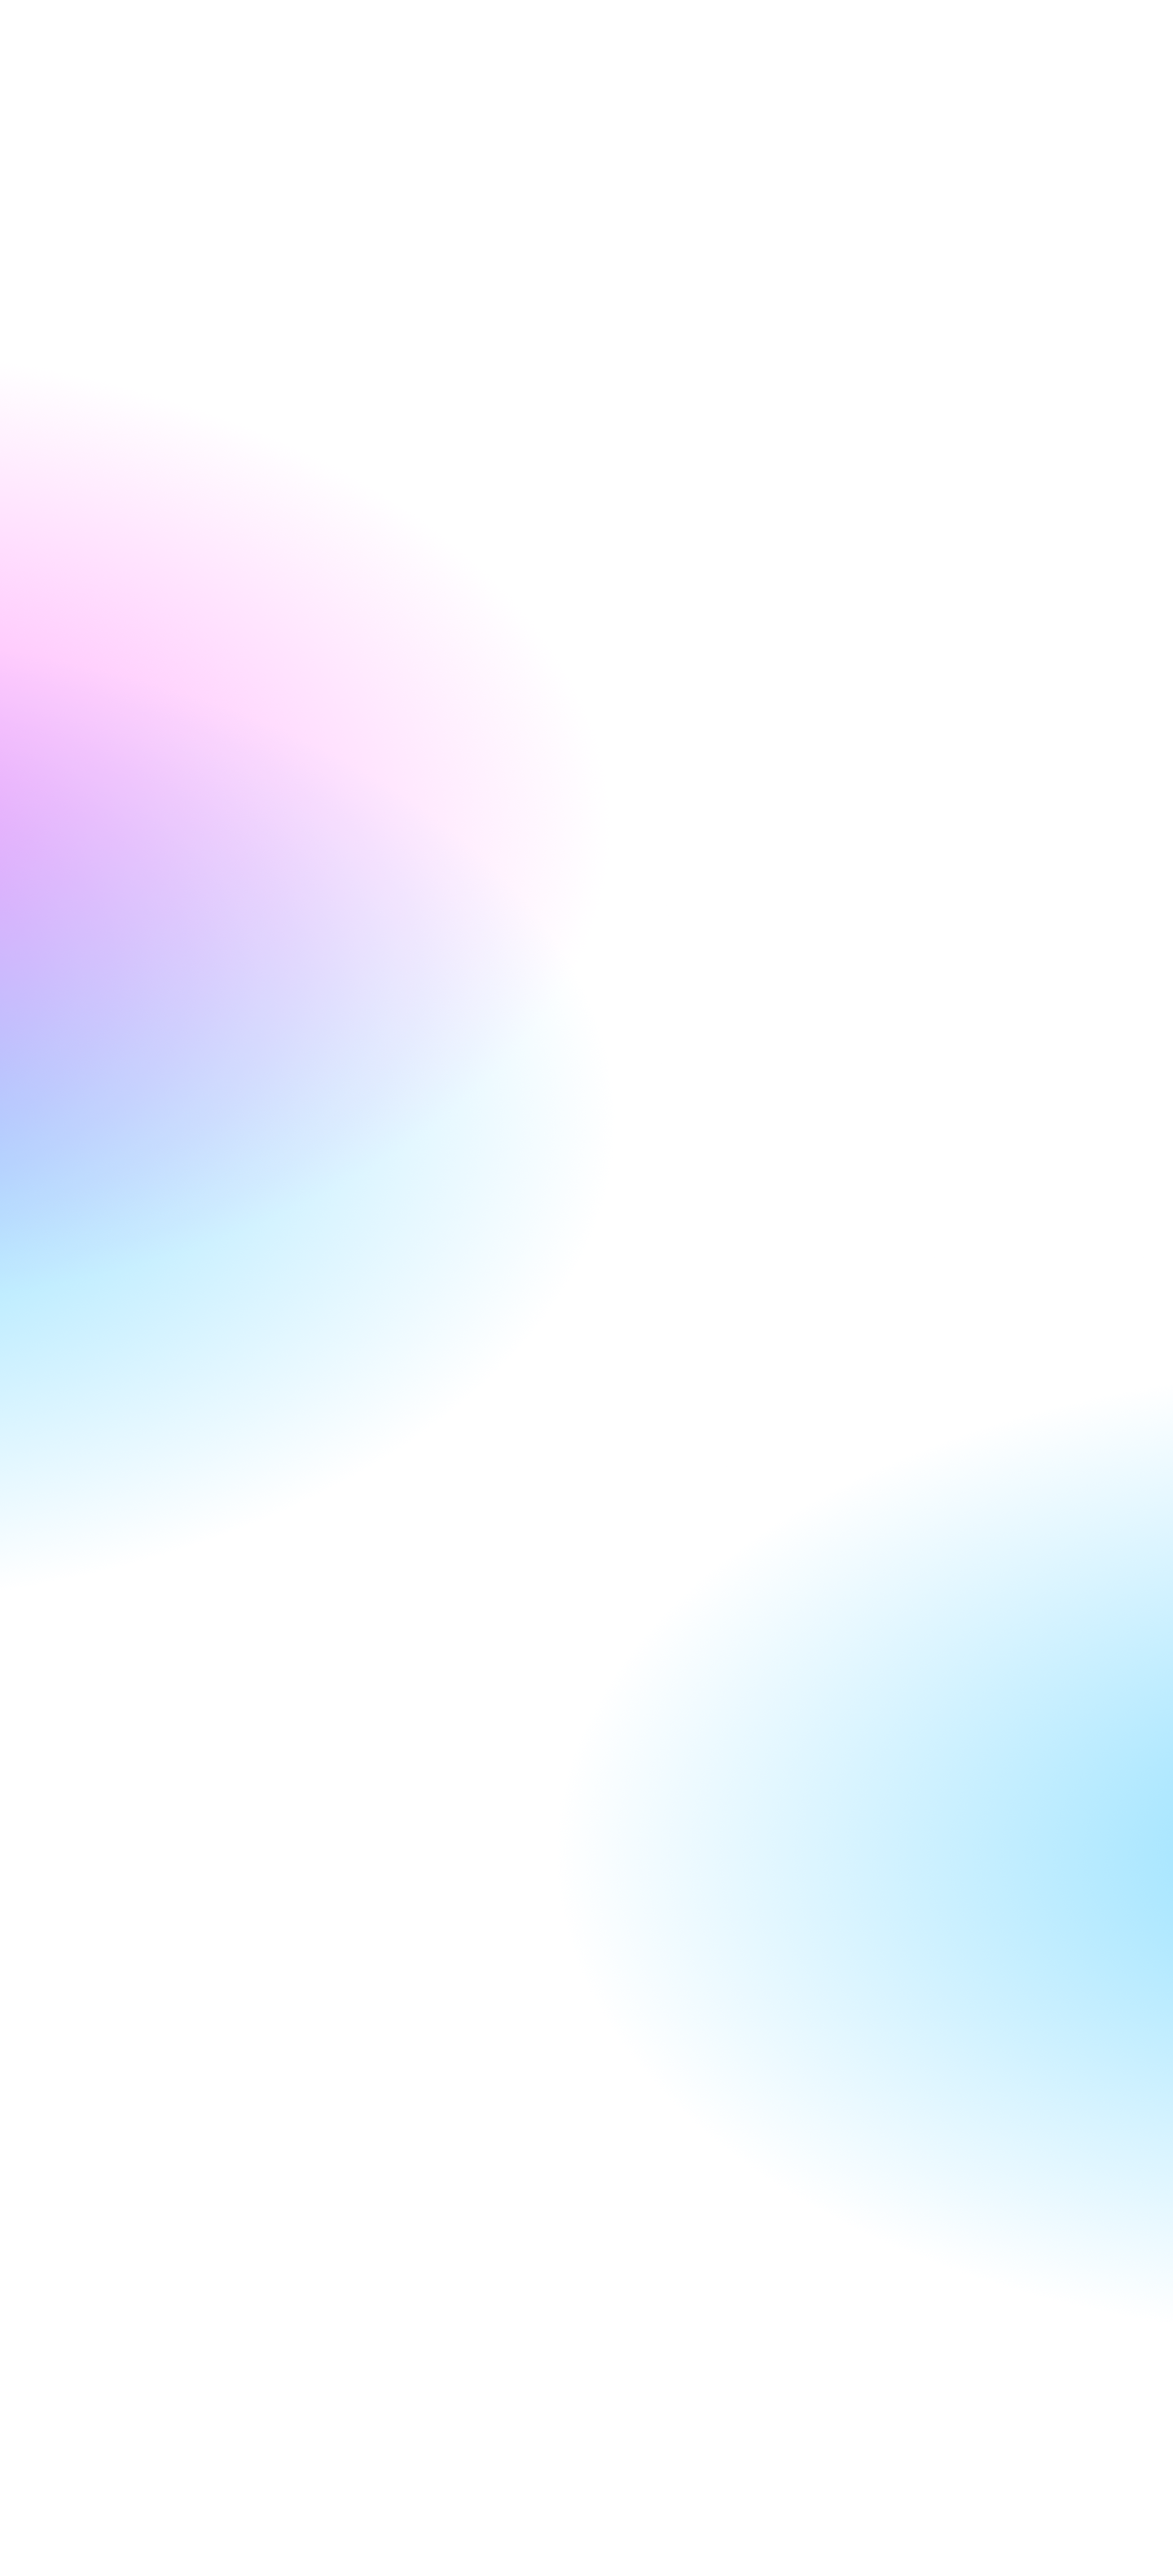
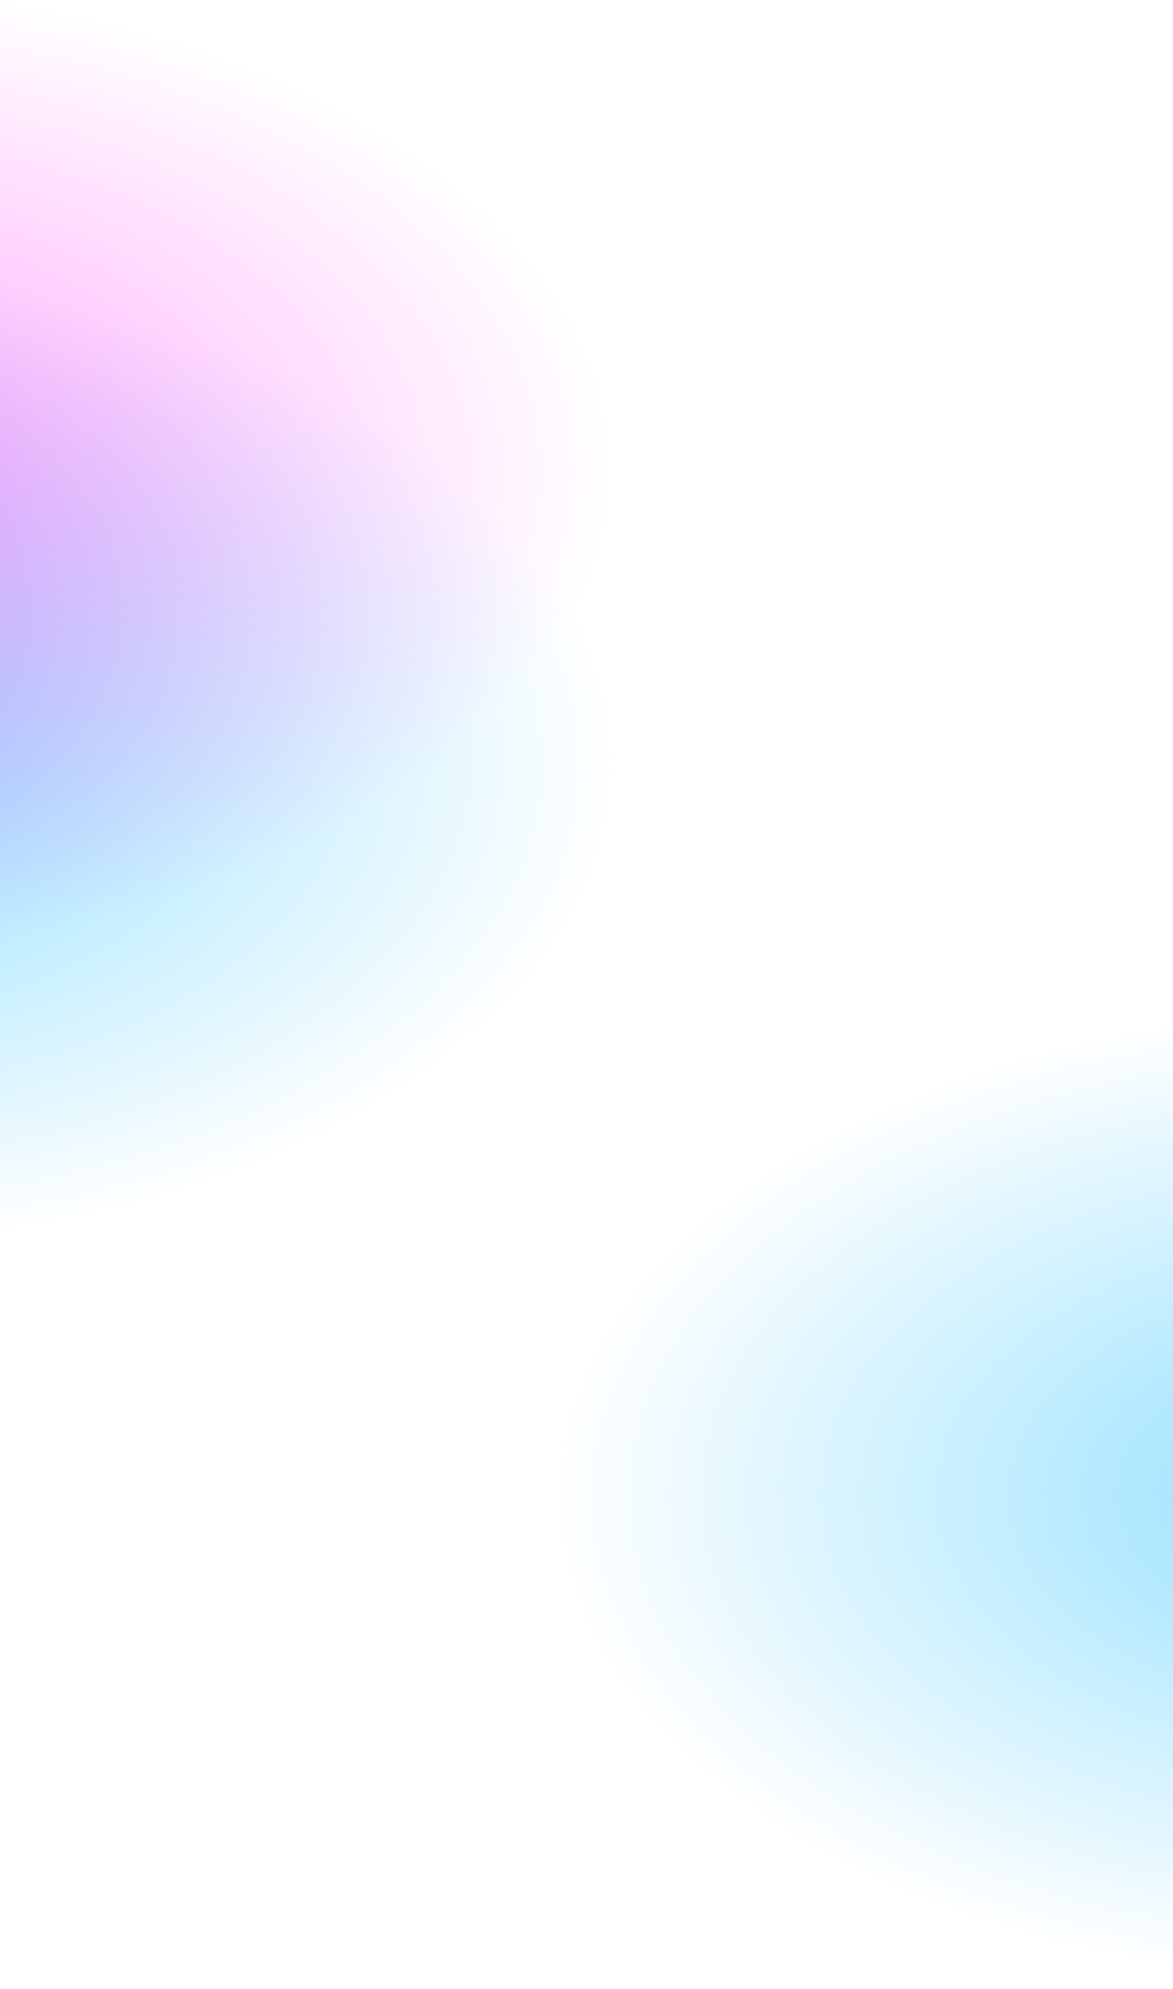
fix layout

Changed region(s): [[0.0, 0.0623, 0.3125, 0.3738], [0.75, 0.8098, 1.0, 0.9344]]

diff --git a/src/pages/why-aime.tsx b/src/pages/why-aime.tsx
@@ -70,18 +70,18 @@ const Home = () => {
       </div>
 
       {/* section 2 */}
-      <div className="flex relative w-full h-full flex-row justify-center z-10 bg-white"
+      <div className="flex relative w-full h-full flex-col lg:flex-row justify-center z-10 bg-white"
         style={{
           backgroundImage: "url('/bg-blue.png')",
           backgroundRepeat: 'no-repeat',
           backgroundPosition: 'right top',
           backgroundSize: 'cover',
         }}>
-        <div className="flex flex-col sm:flex-row relative w-full max-w-[1400px] sm:p-10">
+        <div className="flex flex-col lg:flex-row relative w-full max-w-[1400px] lg:pt-10 lg:pb-32 lg:pl-8">
 
           {/* left heart logo column */}
-          <div className="flex flex-col justify-center items-center w-full sm:w-1/2 sm:pr-10 px-4">
-            <div className="mt-10 sm:mt-20 ">
+          <div className="flex flex-col justify-center items-center w-full flex-1 lg:pr-10 px-6">
+            <div className="mt-10 lg:mt-20 ">
               <Image src="/1on1.png" width={200} height={200} alt="1on1 logo" />
               <p className="text-black text-[54px] font-serif italic">
                 Private Room--<br />
@@ -93,10 +93,10 @@ const Home = () => {
           </div>
 
           {/* right video */}
-          <div className="flex flex-1 justify-center items-center relative  mb-10 sm:mt-0 sm:mb-10">
+          <div className="flex flex-1 justify-center items-center relative  mb-10 lg:mt-0 lg:mb-10">
 
             {/* video */}
-            <div className="rounded-[40px] w-[88%] sm:w-[390px] h-[815px] absolute top-0 sm:top-[100px]">
+            <div className="rounded-[40px] w-[88%] max-w-[375px] lg:w-[390px] h-[815px] absolute top-0 lg:top-[100px]">
               <video controls={false} autoPlay muted loop playsInline
                 className="w-full h-full object-cover rounded-[50px]"
               >
@@ -106,13 +106,13 @@ const Home = () => {
             </div>
 
             {/* frame */}
-            <div className="rounded-[30px] w-[100%] sm:w-[408px] h-[820px] sm:absolute top-[95px] ml-2 sm:ml-0 mt-[-5px]">
-              <div className=" w-[97%] sm:w-[408px] h-[832px] relative">
+            <div className="rounded-[30px] w-[100%] max-w-[408px] lg:w-[408px] h-[820px] lg:absolute top-[95px] ml-2 lg:ml-0 mt-[-5px]">
+              <div className=" w-[97%] lg:w-[408px] h-[832px] relative">
                 <Image src="/frame.png" fill sizes="100%" alt="frame" className="z-40" />
               </div>
 
-              <div className="absolute w-[98%] bottom-2 sm:ml-[-120px]">
-                <div className="w-full sm:w-[520px] h-[220px] sm:h-[320px] relative scale-90 z-40 ml-[-16px] sm:ml-0">
+              <div className="absolute w-[98%]  max-w-[420px] bottom-2 lg:ml-[-120px]">
+                <div className="w-full lg:w-[520px] h-[220px] lg:h-[320px] relative scale-90 z-40 ml-[-16px] lg:ml-0">
                   <Image src="/video-graphics.png" fill sizes="100%" alt="frame" className="z-40" />
                 </div>
               </div>
@@ -123,7 +123,7 @@ const Home = () => {
 
 
       {/* section 3 */}
-      <div className="flex relative w-full h-full flex-col justify-center items-center mt-20 "
+      <div className="flex relative w-full h-full flex-col justify-center items-center mt-10 lg:mt-40 "
         style={{
           backgroundImage: "url('/bg-3.png')",
           backgroundRepeat: 'no-repeat',
@@ -284,18 +284,18 @@ const Home = () => {
         style={{
           backgroundImage: "url('/bg-5.png')",
           backgroundRepeat: 'no-repeat',
-          backgroundPosition: 'center bottom',
+          backgroundPosition: 'center top',
           backgroundSize: 'cover',
         }}
       >
-        <div className="flex flex-row gap-2 w-full max-w-[1000px] justify-center items-center mt-20 px-4">
+        <div className="flex flex-row gap-2 w-full max-w-[1000px] justify-center items-center mt-40 px-4">
           <Image src="/line-l.png" width={120} height={6} alt="line" className="object-contain hidden sm:block" />
           <p className="flex-1 font-serif text-[55px] italic leading-[50px] text-[#171717] font-bold scale-y-110 text-center">
             Fair and Fast Payouts
           </p>
           <Image src="/line-r.png" width={120} height={6} alt="line" className="object-contain hidden sm:block" />
         </div>
-        <div className="text-[20px] my-16 text-center px-4">
+        <div className="text-[20px] my-[60px] text-center px-4">
           Earn 80% of your revenue with the option for immediate withdrawals on transactions exceeding 100 coins.
         </div>
         <Image src="/payment.png" width={523} height={720} alt="ai-icon" className=" cursor-pointer" />
@@ -303,26 +303,32 @@ const Home = () => {
           Step into the future of live streaming with AI Me, the premier AI-enhanced live streaming platform.
         </div>
 
-        <div className="flex flex-row gap-2 w-full max-w-[1000px] justify-center items-center mt-10 px-4">
+        <div className="flex flex-row gap-2 w-full max-w-[1000px] justify-center items-center mt-[156px] px-4">
           <Image src="/line-l.png" width={120} height={6} alt="line" className="object-contain hidden sm:block" />
           <p className="flex-1 font-serif text-[55px] italic leading-[50px] text-[#171717] font-bold scale-y-110 text-center">
             Business Model:
           </p>
           <Image src="/line-r.png" width={120} height={6} alt="line" className="object-contain hidden sm:block" />
         </div>
-        <div className="flex justify-start flex-col gap-2 mt-10 text-[32px]">
-          <div>- 1-on-1 Paid</div>
-          <div>- Private Shows</div>
-          <div>- Exclusive Video/Photo Unlock</div>
-          <div>- Custom Media</div>
-          <div>- Tips</div>
-          <div>- AI persona chat income</div>
+        <div className=" flex flex-col items-center p-6 max-w-[1000px] mt-4 px-4">
+          <p className="text-lg text-gray-700 mb-6 text-center">
+            Explore our diverse range of monetization options designed to maximize your earnings and engage your audience. Whether through personalized one-on-one sessions, exclusive content, or interactive AI persona chats, our platform offers multiple avenues for generating income.
+          </p>
+          <div className="w-full max-w-2xl bg-white p-4 sm:p-10 rounded-lg shadow-md mb-4 border mt-6">
+            <h2 className="text-2xl text-center font-semibold text-blue-800 font-serif italic">Services through which you can earn</h2>
+            <ul className="list-disc list-inside text-gray-700 mt-6">
+              <li>1-on-1 Paid</li>
+              <li>Private Shows</li>
+              <li>Exclusive Video/Photo Unlock</li>
+              <li>Custom Media</li>
+              <li>Tips</li>
+              <li>AI persona chat income</li>
+            </ul>
+          </div>
         </div>
-        <div className="text-[20px] my-8 text-center px-4">
-          <div className='tracking-wide text-[40px] cursor-pointer mb-8 text-blue-500 underline'
-            onClick={() => router.push('/pricing')}>HOST PRICING</div>
+        <p className="text-lg text-gray-700 mb-6 text-center">
           For more details, please contact: aime@aimeai.live
-        </div>
+        </p>
       </div>
 
     </div >

diff --git a/src/pages/pricing.tsx b/src/pages/pricing.tsx
@@ -5,6 +5,10 @@ import Image from 'next/image';
 import React from 'react';
 
 const PricingPage = () => {
+  const Coin = () => (
+    <Image src="/coin.png" alt="coin" width={20} height={20} className="object-contain" />
+  )
+
   return (
     <div className="min-h-screen pb-12 pt-[150px]"
       style={{
@@ -29,11 +33,11 @@ const PricingPage = () => {
               <div className="mt-2  text-gray-800">
                 <p>Recommended Package Rates:</p>
                 <ul className="list-disc pl-5 mt-2">
-                  <li><div className='flex flex-row gap-1'> 10 minutes: <Image src="/coin.png" alt="coin" width={20} height={20} className="object-contain" />35</div></li>
-                  <li><div className='flex flex-row gap-1'> 15 minutes: <Image src="/coin.png" alt="coin" width={20} height={20} className="object-contain" />45</div></li>
-                  <li><div className='flex flex-row gap-1'> 30 minutes: <Image src="/coin.png" alt="coin" width={20} height={20} className="object-contain" />70</div></li>
-                  <li><div className='flex flex-row gap-1'> 45 minutes: <Image src="/coin.png" alt="coin" width={20} height={20} className="object-contain" />100</div></li>
-                  <li><div className='flex flex-row gap-1'> 60 minutes: <Image src="/coin.png" alt="coin" width={20} height={20} className="object-contain" />120</div></li>
+                  <li><div className='flex flex-row gap-1'> 10 minutes: <Coin />25</div></li>
+                  <li><div className='flex flex-row gap-1'> 15 minutes: <Coin />35</div></li>
+                  <li><div className='flex flex-row gap-1'> 20 minutes: <Coin />45</div></li>
+                  <li><div className='flex flex-row gap-1'> 30 minutes: <Coin />70</div></li>
+                  <li><div className='flex flex-row gap-1'> 60 minutes: <Coin />120</div></li>
                 </ul>
                 <p className="mt-2">Extensions available for sessions over 60 minutes</p>
               </div>
@@ -44,10 +48,12 @@ const PricingPage = () => {
           <div className="bg-white overflow-hidden shadow rounded-lg">
             <div className="px-4 py-5 sm:p-6">
               <h3 className="text-3xl font-serif text-center text-blue-700">Private Shows</h3>
-              <p className="mt-2 text-gray-800">Host-Set Pricing</p>
-              <div className="mt-2 text-gray-800">
-                <p>For example:</p>
-                <div className='flex flex-row gap-1'> 60 minutes: <Image src="/coin.png" alt="coin" width={20} height={20} className="object-contain" />30 each</div>
+              <p className="mt-2 text-gray-800">Host-Set Pricing </p>
+              <p className=" text-gray-800">Ticketed Entry</p>
+              <p className=" text-gray-800">Guest Limited</p>
+              <div className="mt-4 text-gray-800">
+                <div>For example: A 30 minutes show:</div>
+                <div className='flex flex-row gap-1'>Ticket Price <Coin />30 each</div>
                 Limit: 200 people
               </div>
             </div>
@@ -59,7 +65,7 @@ const PricingPage = () => {
               <h3 className="text-3xl font-serif text-center text-blue-700">Exclusive Video/Photo Unlock</h3>
               <p className="mt-2  text-gray-800">Host-Set Pricing</p>
               <div className="mt-2  text-gray-800">
-                <div className='flex flex-row gap-1'>Average Pricing: <Image src="/coin.png" alt="coin" width={20} height={20} className="object-contain" />15 per item
+                <div className='flex flex-row gap-1'>Average Pricing: <Coin />15 per item
                 </div>
               </div>
             </div>
@@ -72,7 +78,7 @@ const PricingPage = () => {
               <p className="mt-2  text-gray-800">Agreed Pricing</p>
               <div className="mt-2  text-gray-800">
                 <p>Recommended Range:</p>
-                <div className='flex flex-row gap-1'><Image src="/coin.png" alt="coin" width={20} height={20} className="object-contain" />5 - <Image src="/coin.png" alt="coin" width={20} height={20} className="object-contain" />100 per item
+                <div className='flex flex-row gap-1'><Coin />5 - <Coin />100 per item
                 </div>
               </div>
             </div>
@@ -84,7 +90,7 @@ const PricingPage = () => {
               <h3 className="text-3xl font-serif text-center text-blue-700">Tips</h3>
               <p className="mt-2  text-gray-800">User-Decided Customizable</p>
               <div className="mt-2  text-gray-80 flex flex-row gap-1">
-                Range: <Image src="/coin.png" alt="coin" width={20} height={20} className="object-contain" />0.1 - <Image src="/coin.png" alt="coin" width={20} height={20} className="object-contain" />20
+                Range: <Coin />0.1 - <Coin />20
               </div>
             </div>
           </div>
@@ -95,7 +101,7 @@ const PricingPage = () => {
               <h3 className="text-3xl font-serif text-center text-blue-700">AI Persona Chat</h3>
               <p className="mt-2  text-gray-800">Host-Set Pricing</p>
               <div className="mt-2  text-gray-80 flex flex-row gap-1">
-                Range: <Image src="/coin.png" alt="coin" width={20} height={20} className="object-contain" />0.1 - <Image src="/coin.png" alt="coin" width={20} height={20} className="object-contain" />20 per hour
+                Range: <Coin />0.1 - <Coin />20 per hour
               </div>
             </div>
           </div>

diff --git a/src/pages/index.tsx b/src/pages/index.tsx
@@ -77,11 +77,11 @@ const Home = () => {
           backgroundPosition: 'center top',
           backgroundSize: 'cover',
         }}>
-        <div className="flex flex-col sm:flex-row relative w-full max-w-[1400px] sm:p-10"
+        <div className="flex flex-col lg:flex-row relative w-full max-w-[1400px] lg:p-10"
         >
           {/* left heart logo column */}
-          <div className="flex flex-col justify-center items-center w-full sm:w-1/2 sm:pr-10 px-4 ">
-            <div className="mt-10 sm:mt-20 mb-20">
+          <div className="flex flex-col justify-center items-center w-full lg:w-1/2 lg:pr-10 px-6 ">
+            <div className="mt-10 lg:mt-20 mb-20">
               <Image src="/1on1.png" width={200} height={200} alt="1on1 logo" />
               <p className="text-black text-[54px] font-serif italic">
                 1-on-1 Live: Private Room</p>
@@ -92,10 +92,10 @@ const Home = () => {
           </div>
 
           {/* right video */}
-          <div className="flex flex-1 justify-center items-center relative mt-[-150px] mb-10 sm:mt-0 sm:mb-10">
+          <div className="flex flex-1 justify-center items-center relative mt-[-80px] mb-10 lg:mt-0 lg:mb-10">
 
             {/* video */}
-            <div className="rounded-[40px] w-[88%] sm:w-[390px] h-[815px] absolute top-0 sm:top-[100px]">
+            <div className="rounded-[40px] w-[88%] max-w-[370px] lg:w-[390px] h-[815px] absolute top-0 lg:top-[100px]">
               <video controls={false} autoPlay muted loop playsInline
                 className="w-full h-full object-cover rounded-[50px]"
               >
@@ -105,13 +105,13 @@ const Home = () => {
             </div>
 
             {/* frame */}
-            <div className="rounded-[30px] w-[100%] sm:w-[408px] h-[820px] sm:absolute top-[95px] ml-2 sm:ml-0 mt-[-5px]">
-              <div className=" w-[97%] sm:w-[408px] h-[832px] relative">
+            <div className="rounded-[30px] w-[100%] max-w-[408px] lg:w-[408px] h-[820px] lg:absolute top-[95px] ml-2 lg:ml-0 mt-[-5px]">
+              <div className=" w-[97%] max-w-[408px] lg:w-[408px] h-[832px] relative">
                 <Image src="/frame.png" fill sizes="100%" alt="frame" className="z-40" />
               </div>
 
-              <div className="absolute w-[98%] bottom-2 sm:ml-[-120px]">
-                <div className="w-full sm:w-[520px] h-[220px] sm:h-[320px] relative scale-90 z-40 ml-[-16px] sm:ml-0">
+              <div className="absolute w-[98%] max-w-[320px] bottom-2 lg:ml-[-120px]">
+                <div className="w-full lg:w-[520px] h-[220px] lg:h-[320px] relative scale-90 z-40 ml-[-16px] lg:ml-0">
                   <Image src="/video-graphics.png" fill sizes="100%" alt="frame" className="z-40" />
                 </div>
               </div>
@@ -122,7 +122,7 @@ const Home = () => {
 
 
       {/* section 3 */}
-      <div className="flex relative w-full h-full flex-col justify-center items-center mt-20 "
+      <div className="flex relative w-full h-full flex-col justify-center items-center mt-10 lg:mt-32 "
         style={{
           backgroundImage: "url('/bg-3.png')",
           backgroundRepeat: 'no-repeat',
@@ -259,14 +259,19 @@ const Home = () => {
           backgroundSize: 'cover',
         }}
       >
-        <p className="font-serif text-[55px] italic leading-[50px]  text-[#7e318d] font-bold my-20">
-          Chat with ME
-        </p>
-        <Image src="/chat1.png" width={523} height={720} alt="ai-icon" className="mb-20 cursor-pointer"
+        <div className="flex flex-row gap-2 w-full max-w-[1000px] justify-center items-center mt-[156px] mb-[164px] px-4">
+          <Image src="/line-l.png" width={120} height={6} alt="line" className="object-contain hidden sm:block" />
+          <p className="flex-1 font-serif text-[55px] italic leading-[50px] text-[#171717] font-bold scale-y-110 text-center">
+            Start to Chat
+          </p>
+          <Image src="/line-r.png" width={120} height={6} alt="line" className="object-contain hidden sm:block" />
+        </div>
+
+        <Image src="/chat1.png" width={523} height={720} alt="ai-icon" className="mb-[240px] cursor-pointer"
           onClick={() => router.push(H5_URL)} />
-        <Image src="/chat2.png" width={523} height={720} alt="ai-icon" className="mb-20 cursor-pointer"
+        <Image src="/chat2.png" width={523} height={720} alt="ai-icon" className="mb-[240px] cursor-pointer"
           onClick={() => router.push(H5_URL)} />
-        <Image src="/chat3.png" width={523} height={720} alt="ai-icon" className="mb-0 cursor-pointer"
+        <Image src="/chat3.png" width={523} height={720} alt="ai-icon" className="mb-[230px] cursor-pointer"
           onClick={() => router.push(H5_URL)} />
 
       </div>
